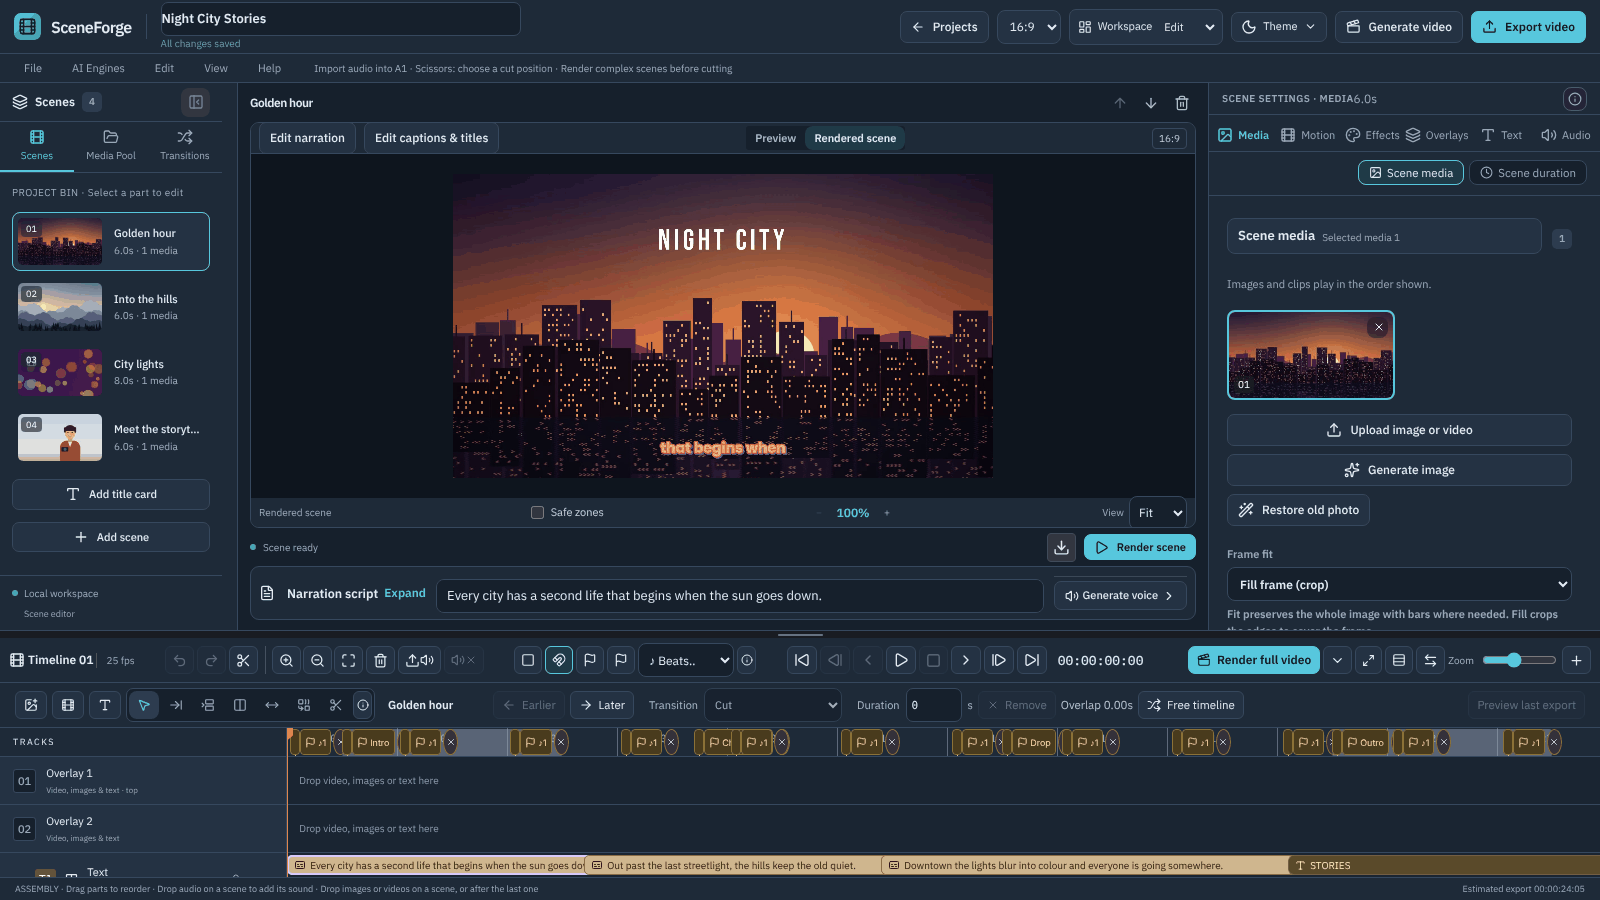
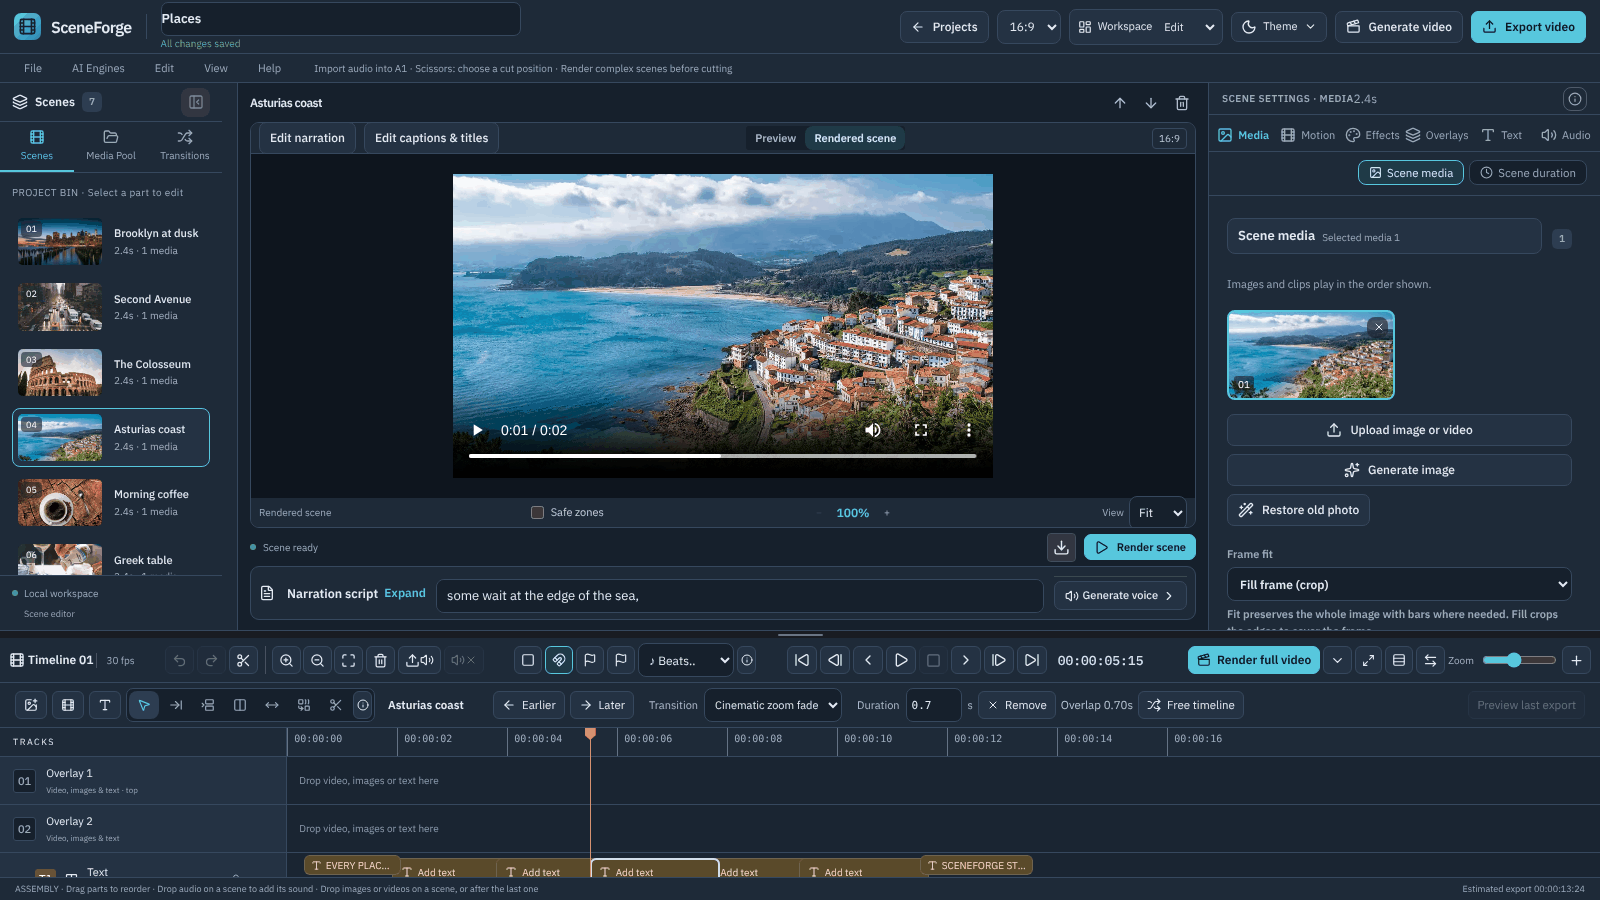
README: demo reel and screenshots from real photos
Replace the generated-media animation with a 14-second SceneForge edit of eight Pixabay
photos (whip pans, zoom punch, before & after, spin, cinematic fades), and rebuild the
banner, social preview, editor overview and trending-effects screenshots from them.
The photos themselves are not committed; README and FEATURES credit Pixabay.

Claude-Session: https://claude.ai/code/session_01U6a94NjfW174WBDX1u3QHS

diff --git a/scripts/make_readme_banner.py b/scripts/make_readme_banner.py
@@ -4,8 +4,8 @@ of a SceneForge export.
 
     python scripts/make_readme_banner.py FRAME1.png FRAME2.png FRAME3.png FRAME4.png
 
-The frames used for the committed images come from the demo project that
-scripts/capture_readme_screenshots.py builds (generated pictures only), exported by SceneForge.
+The committed images use four Pixabay photos (Brooklyn skyline, Colosseum, Asturias coast, coffee),
+cropped to 16:9. The photos themselves are not in the repository.
 """
 from __future__ import annotations
 

diff --git a/README.md b/README.md
@@ -21,8 +21,8 @@
 **SceneForge Studio turns a script, your photos and clips, and a voice into a finished, captioned video, one scene at a time.** Write the narration, drop in pictures, pick a look, and SceneForge times everything to the voice. It renders on your own computer with FFmpeg: no account, no watermark, no subscription. AI is optional, and much of it runs free on your machine. Arabic and English are first-class, right down to right-to-left captions.
 
 <p align="center">
-  <img src="docs/images/demo-transitions.webp" alt="A SceneForge export: a whip pan from a city skyline to mountains, a spin into a neon title with an RGB split on the beat, and a zoom punch onto a presenter" width="800">
-  <br><sub>Straight out of SceneForge: whip pan, spin with RGB split, zoom punch. All demo media is generated; nothing is stock.</sub>
+  <img src="docs/images/demo-reel.webp" alt="A 14-second SceneForge edit of travel and food photos: a Brooklyn skyline at dusk with the title Every place has a story, a whip pan to a New York street, a zoom punch onto the Colosseum revealed from black and white to colour, a zoom fade to a coastal town, a spin onto a cup of coffee, a Greek salad, and a forest walk with the title SceneForge Studio" width="720">
+  <br><sub>Made in SceneForge from eight still photos: camera moves, whip pans, zoom punch, a before &amp; after reveal, spin and cinematic fades. Photos from Pixabay.</sub>
 </p>
 
 ## Download
@@ -49,11 +49,11 @@ The full list is in the [changelog](docs/CHANGELOG.md).
 
 ## A look inside
 
-![The SceneForge editor: the scene list, a rendered "Night City" scene with a caption, scene settings, and the multitrack timeline](docs/images/editor-overview.png)
+![The SceneForge editor: seven named parts in the project bin, a rendered coastal scene with its narration line, scene settings, and the timeline](docs/images/editor-overview.png)
 
 <table>
   <tr>
-    <td width="50%"><img src="docs/images/trending-effects.png" alt="More effects, Trending: RGB split on every beat, with strength and beats per minute"><br><b>Trending effects.</b> Beat-synced zooms, flashes, RGB split, intro moves and more, each with its own settings and an effect stack you can reorder.</td>
+    <td width="50%"><img src="docs/images/trending-effects.png" alt="More effects, Trending: Before and after on the Colosseum, half black and white, half colour, with the sweep settings"><br><b>Trending effects.</b> Before &amp; after reveals, beat-synced zooms, flashes, RGB split, intro moves and more, each with its own settings and an effect stack you can reorder.</td>
     <td width="50%"><img src="docs/images/caption-styles.png" alt="Caption styles: 71 styles in Social, Cinematic, Karaoke, Fun, Minimal and Arabic groups next to a neon title"><br><b>71 caption styles.</b> Word-by-word timing, karaoke highlights and proper Arabic right-to-left layout, generated from the narration by local Whisper.</td>
   </tr>
   <tr>
@@ -117,4 +117,5 @@ SceneForge Studio is free software under the **[GNU General Public License v3.0 
 - Emoji: [Twemoji](https://github.com/jdecked/twemoji) v17.0.3 graphics, Copyright Twitter, Inc. and other contributors, **CC-BY 4.0** (`assets/stickers/LICENSE-TWEMOJI-GRAPHICS.txt`). The 78 graphic stickers were drawn for SceneForge.
 - Cutout models are ONNX files published with rembg (MIT); IS-Net general use and U²-Net small are Apache-2.0. The source does not state the People model's licence.
 - The voice isolation model (MDX-Net Kim_Vocal_2, from the Ultimate Vocal Remover repository) has **no explicit licence from its author**; check it before relying on the feature commercially.
+- The demo photos at the top of this page are from [Pixabay](https://pixabay.com) under the Pixabay Content License; they are not covered by SceneForge's licence.
 - AI models and services you add (Whisper, Kokoro, Chatterbox, Stable Diffusion, ComfyUI models, cloud providers) are not part of SceneForge and have their own terms, which may restrict commercial use.

diff --git a/docs/FEATURES.md b/docs/FEATURES.md
@@ -4,14 +4,15 @@ Everything the editor does, area by area. New to SceneForge? Start with the [REA
 Version labels in *italics* say when a feature arrived; the full record is in the
 [changelog](CHANGELOG.md) and the [release notes](../desktop/RELEASE_NOTES.md).
 
-Screenshots show a demo project made only from generated pictures, video and sound
-([`scripts/capture_readme_screenshots.py`](../scripts/capture_readme_screenshots.py) rebuilds it).
+Most screenshots show a demo project made from generated pictures, video and sound
+([`scripts/capture_readme_screenshots.py`](../scripts/capture_readme_screenshots.py) rebuilds it); the demo reel and the
+trending-effects screenshot use photos from Pixabay.
 
 ## Trending effects, transitions and looks
 
-<p align="center"><img src="images/demo-transitions.webp" alt="Exported SceneForge video: a whip pan from a city skyline to mountains, a spin into a neon title with RGB split, and a zoom punch onto a presenter" width="800"></p>
+<p align="center"><img src="images/demo-reel.webp" alt="A SceneForge edit of travel and food photos with whip pans, a zoom punch, a before and after reveal on the Colosseum, a spin and cinematic fades" width="720"><br><sub>Photos from Pixabay.</sub></p>
 
-![Effects tab, More effects, Trending group: RGB split switched on, on every beat, with strength and beats per minute, above Cinematic fade and zoom](images/trending-effects.png)
+![Effects tab, More effects, Trending group: Before and after on the Colosseum, half black and white, half colour, with the before look, start and sweep length](images/trending-effects.png)
 
 Short-video effects after CapCut's 2026 trend list, all rendered by FFmpeg on your computer.
 
